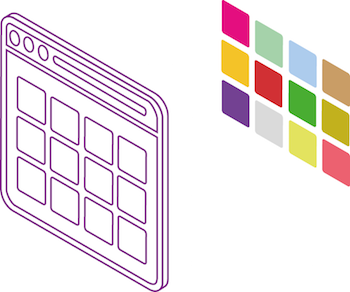
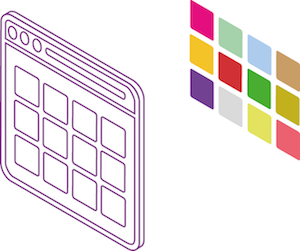
Update texts and images for Portal offers page

diff --git a/public/css/ozwillo.css b/public/css/ozwillo.css
@@ -434,7 +434,7 @@ p.community-intro {
 }
 
 /*****************************************************************************************************************
-**************************************************** Offers*******************************************************
+**************************************************** Offers ******************************************************
 *****************************************************************************************************************/
 
 div.offer h2 {
@@ -455,6 +455,29 @@ div.offer div.addon, div.offer div.subtitle {
     background: url(/static/img/block-background.jpg) no-repeat;
     background-size: cover;
     padding-bottom: 25px;
+}
+
+div.offer-portal div.portal-type {
+    margin-top: 2em;
+    font-size: 2em;
+    text-transform: uppercase;
+    color: #bdbdbd;
+}
+
+div.img-background div.offer-portal div.portal-type {
+    color: inherit;
+}
+
+div.offer-portal h2 {
+    margin-top: 0;
+}
+
+div.offer-portal img.img-block-illustration {
+    margin-top: 0;
+}
+
+div.offer-portal img.country-icon {
+    margin-left: 2em;
 }
 
 /*****************************************************************************************************************
